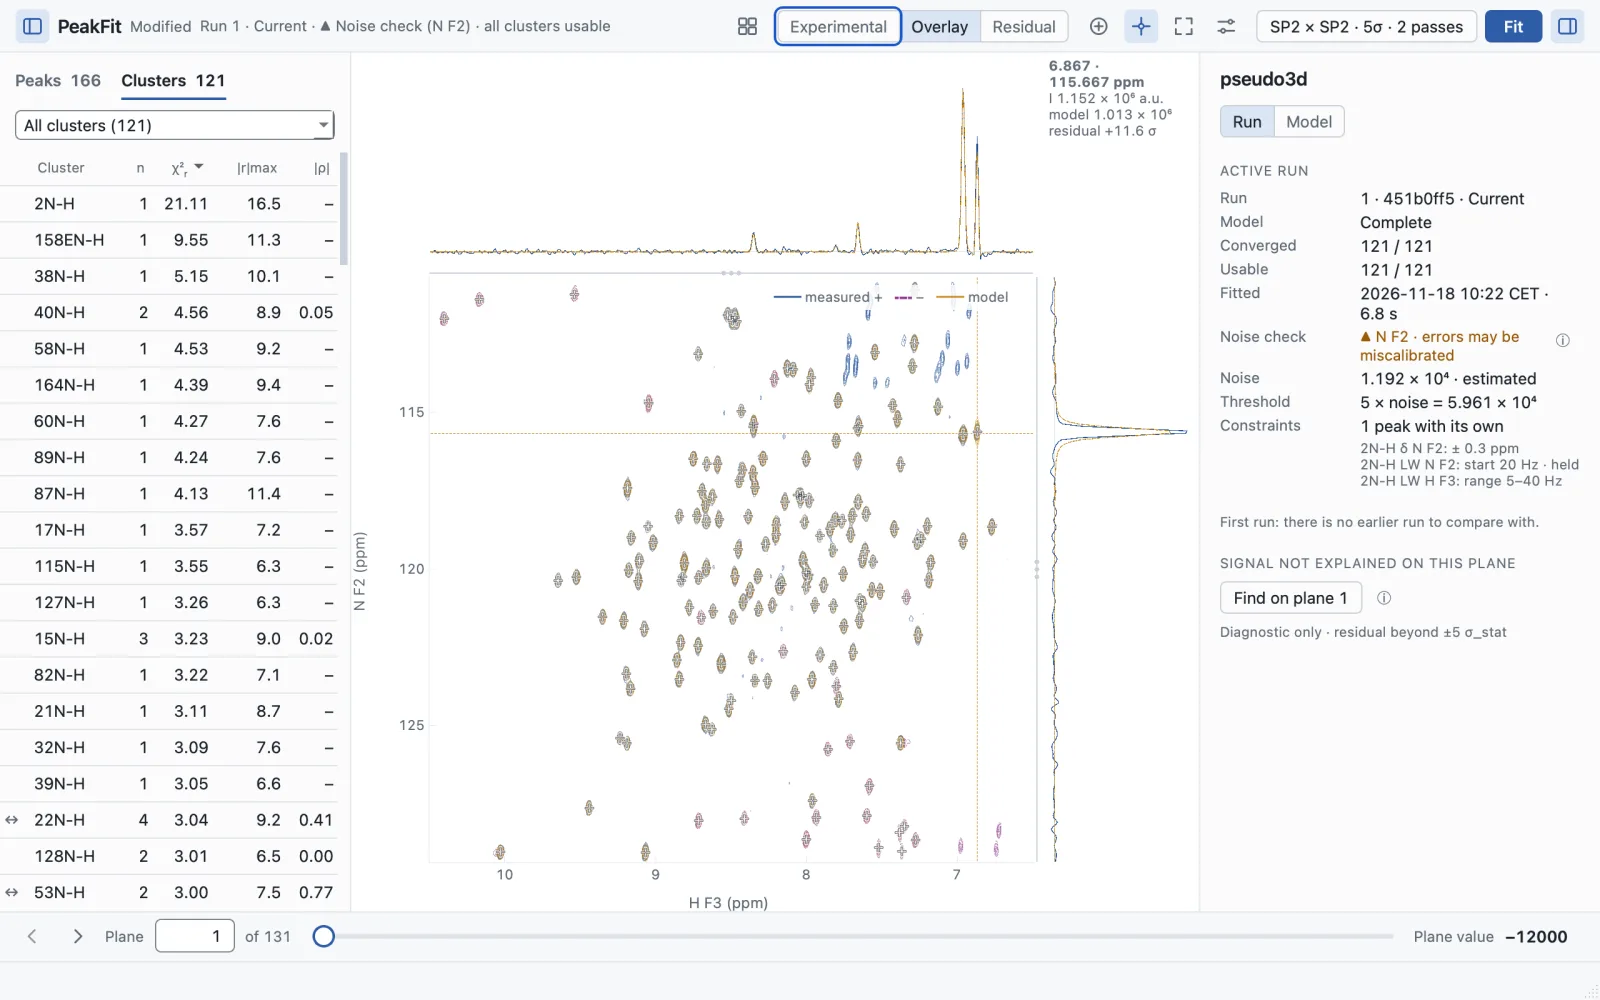
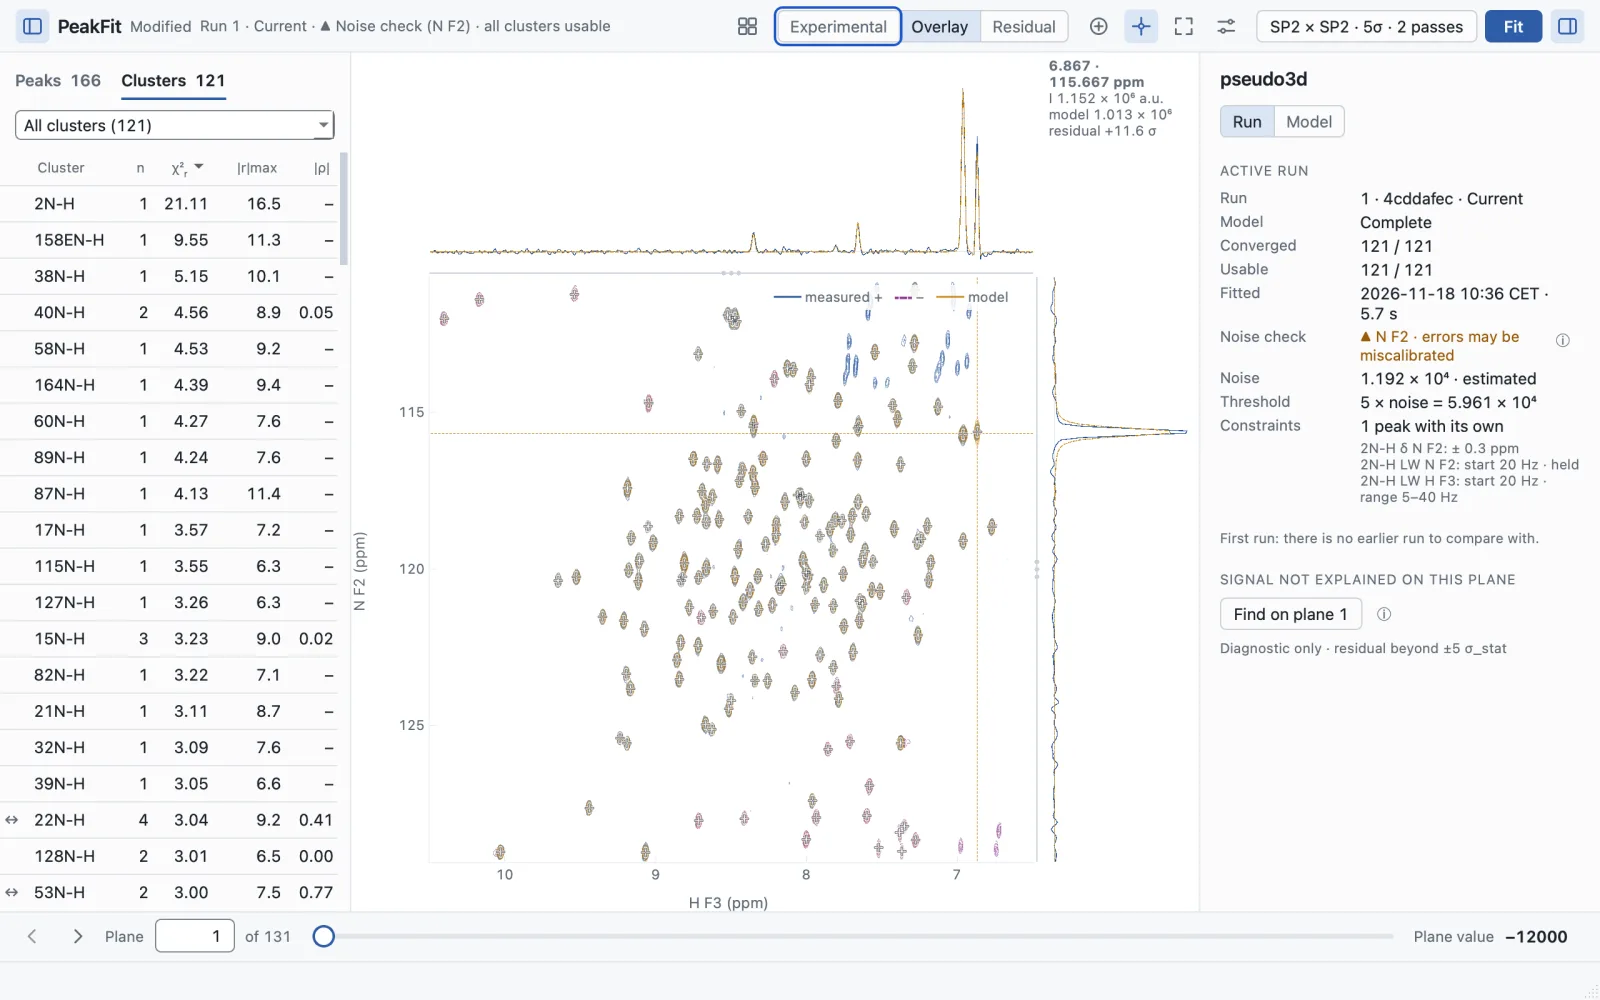
Window hint reads whole; recapture after the independent review

Changed region(s): [[0.75, 0.465, 0.9688, 0.651], [0.875, 0.186, 0.9688, 0.217]]

diff --git a/src/peakfit/gui/editor/peak_parameters.py b/src/peakfit/gui/editor/peak_parameters.py
@@ -130,6 +130,10 @@ class _LimitRow(QtWidgets.QWidget):
         self.high = number_edit(f"{row.title} upper bound")
         self.window_edit = number_edit(f"{row.title} position window (ppm)")
         self.window_edit.setToolTip(WINDOW_TIP)
+        # One figure wider than a value field: the hint reads 0.083 or "range" whole.
+        metrics = self.window_edit.fontMetrics()
+        hint = max(metrics.horizontalAdvance(t) for t in ("0.0000", "range"))
+        self.window_edit.setFixedWidth(hint + 14)
         self.at = text_label("", "muted")
         self.unit = text_label(row.unit, "muted")
         self.message = text_label("", "error", wrap=True)

diff --git a/tests/test_gui_peak_parameters.py b/tests/test_gui_peak_parameters.py
@@ -465,4 +465,3 @@ def test_a_long_default_window_is_hinted_short_and_given_exactly_in_its_tooltip(
     window = _row(editor, "F3.cs").window_edit
     assert window.placeholderText() == "0.083"
     assert window.toolTip().endswith("the Model settings give ± 0.0833153 ppm")
-    assert window.fontMetrics().horizontalAdvance("0.083") < window.contentsRect().width()

diff --git a/docs/validation/gui-peak-parameters.md b/docs/validation/gui-peak-parameters.md
@@ -30,7 +30,8 @@ working peak”). Sizes are Qt logical pixels.
   parameters without ×, a three-line note once the inspector scrolled, and a
   problem message that repeated its parameter's name and sent the user to the
   section they were in; the Run page listed limits without units. Each was fixed
-  and the captures rerun. The final review reran all 32 on 2026-11-18; the figures
+  and the captures rerun. The final review (with the independent review addressed) reran all 32 on
+  2026-11-18; the figures
   below are from that run.
 
 ## Measurements
